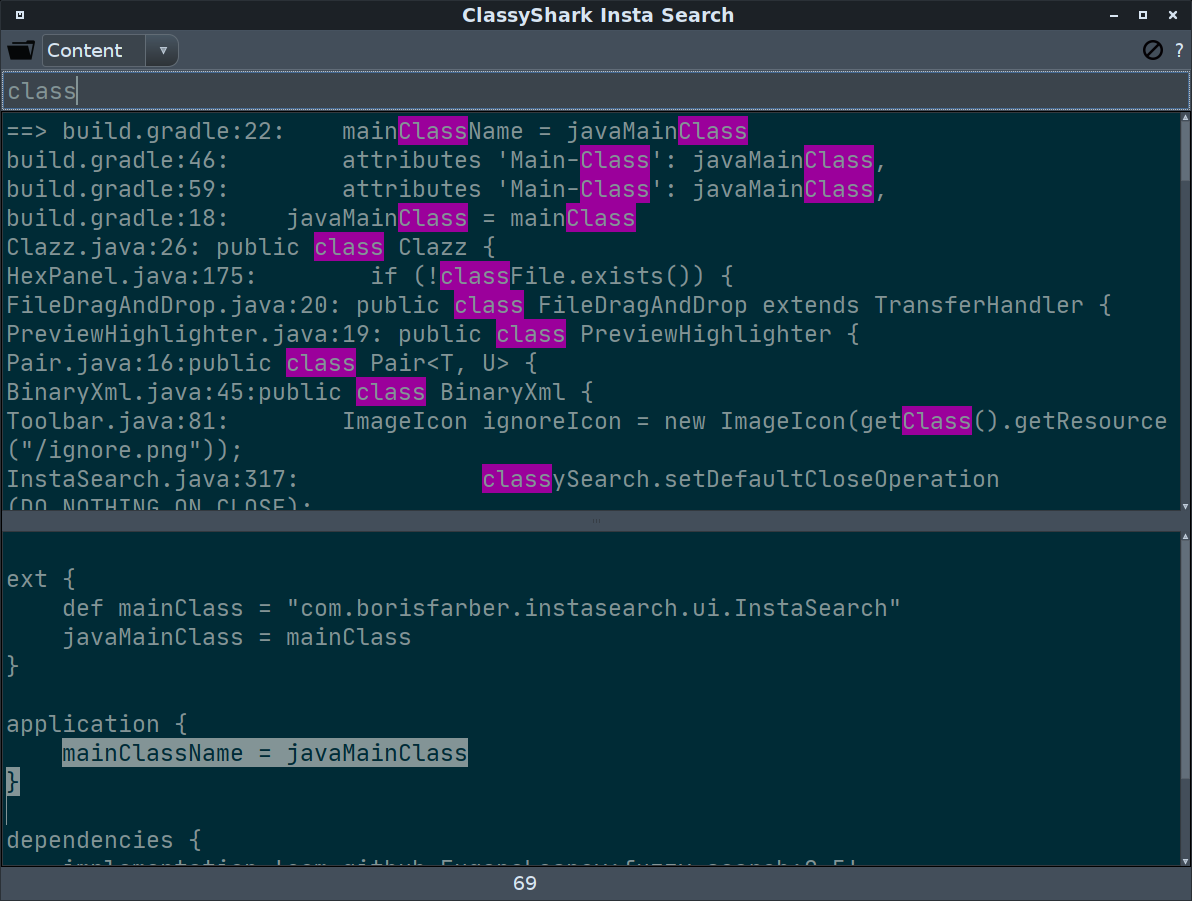
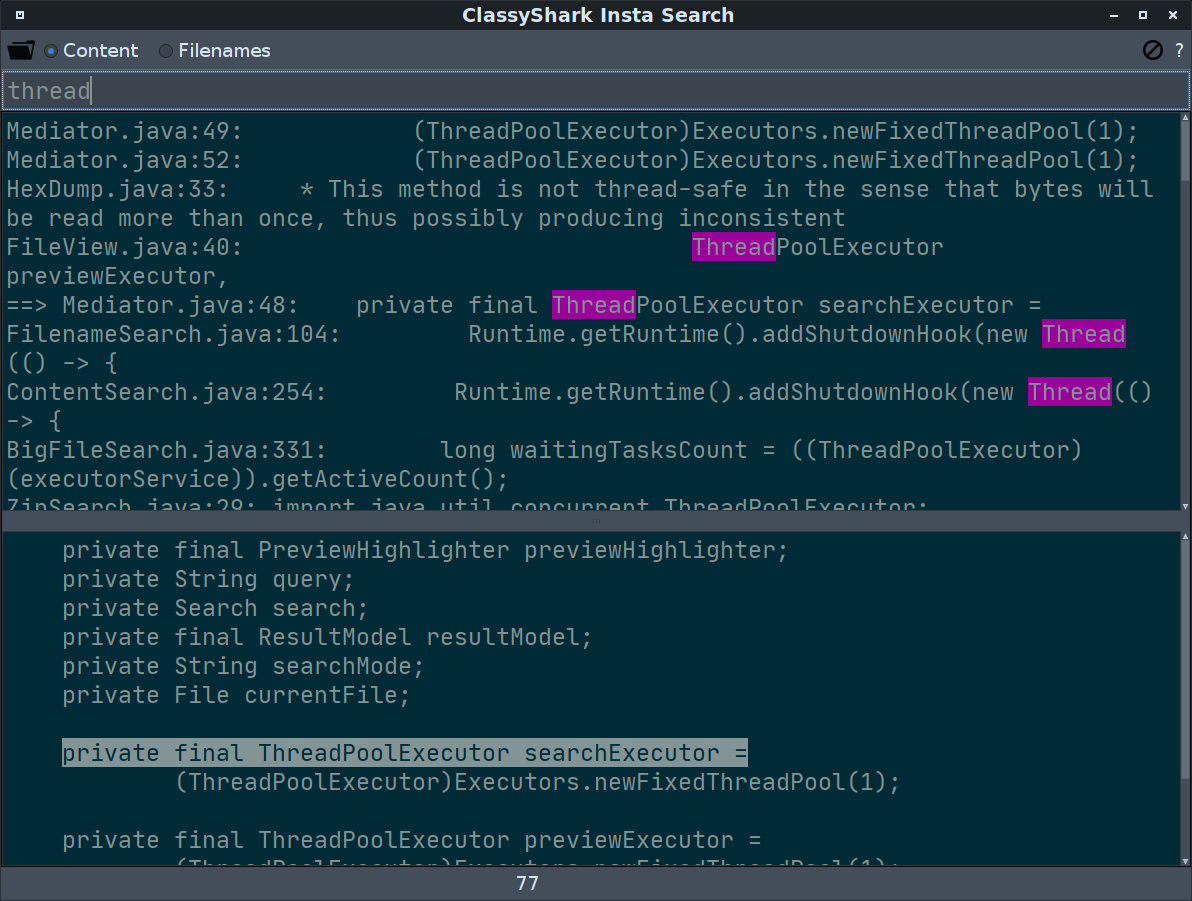
* Updated README and image * Code cleaning

diff --git a/src/main/java/com/borisfarber/instasearch/ui/Toolbar.java b/src/main/java/com/borisfarber/instasearch/ui/Toolbar.java
@@ -25,7 +25,6 @@ import static com.borisfarber.instasearch.models.search.Search.FILENAMES_SEARCH;
 
 public class Toolbar extends JToolBar {
     private final InstaSearch frame;
-    private final JComboBox searchModeCombo;
 
     public Toolbar(InstaSearch frame) {
         super();
@@ -33,10 +32,10 @@ public class Toolbar extends JToolBar {
         JButton openButton = buildOpenButton();
         JButton ignoreButton = buildIgnoreButton();
         JButton aboutButton = buildAboutButton();
-        searchModeCombo = buildSearchModeCombo();
+        JPanel searchPanel = buildSearchPanel();
 
         add(openButton);
-        add(searchModeCombo);
+        add(searchPanel);
         add(Box.createHorizontalGlue());
         add(ignoreButton);
         add(aboutButton);
@@ -62,16 +61,26 @@ public class Toolbar extends JToolBar {
         return result;
     }
 
-    private JComboBox buildSearchModeCombo() {
-        String[] modes ={CONTENT_SEARCH,
-                FILENAMES_SEARCH};
-        JComboBox<String> result = new JComboBox<>(modes);
+    private JPanel buildSearchPanel() {
+        JRadioButton contentButton = new JRadioButton(CONTENT_SEARCH);
+        contentButton.setActionCommand(CONTENT_SEARCH);
+        contentButton.setSelected(true);
 
-        result.addActionListener(actionEvent -> {
-            JComboBox cb = (JComboBox)actionEvent.getSource();
-            String selection = (String)cb.getSelectedItem();
-            frame.updateFolderSearchMode(selection);
-        });
+        JRadioButton filenamesButton = new JRadioButton(FILENAMES_SEARCH);
+        filenamesButton.setActionCommand(FILENAMES_SEARCH);
+
+        ButtonGroup group = new ButtonGroup();
+        group.add(contentButton);
+        group.add(filenamesButton);
+
+        contentButton.addActionListener(
+                actionEvent -> frame.updateFolderSearchMode(actionEvent.getActionCommand()));
+        filenamesButton.addActionListener(
+                actionEvent -> frame.updateFolderSearchMode(actionEvent.getActionCommand()));
+
+        JPanel result = new JPanel(new GridLayout(1, 0));
+        result.add(contentButton);
+        result.add(filenamesButton);
 
         return result;
     }

diff --git a/README.md b/README.md
@@ -16,10 +16,10 @@ incrementally.
 *  Toolbar
      * Open folder file - pressing the icon will pop up folder chooser dialog to select a folder 
        to search
-     * Select search mode  
+     * Select search mode from the following:  
          * Content - search for content inside files (grep)
          * Filenames - search for a file. ClassyShark Insta search will look for dot(hidden) files, 
-           only if the hidden file was selected as root.
+           only if a hidden file was selected as root.
      * Ignore list - opens the `ignore.txt` from your home folder via the system editor. This file 
        holds the ignored paths` data while crawling for files.
      * About - shows the version number
